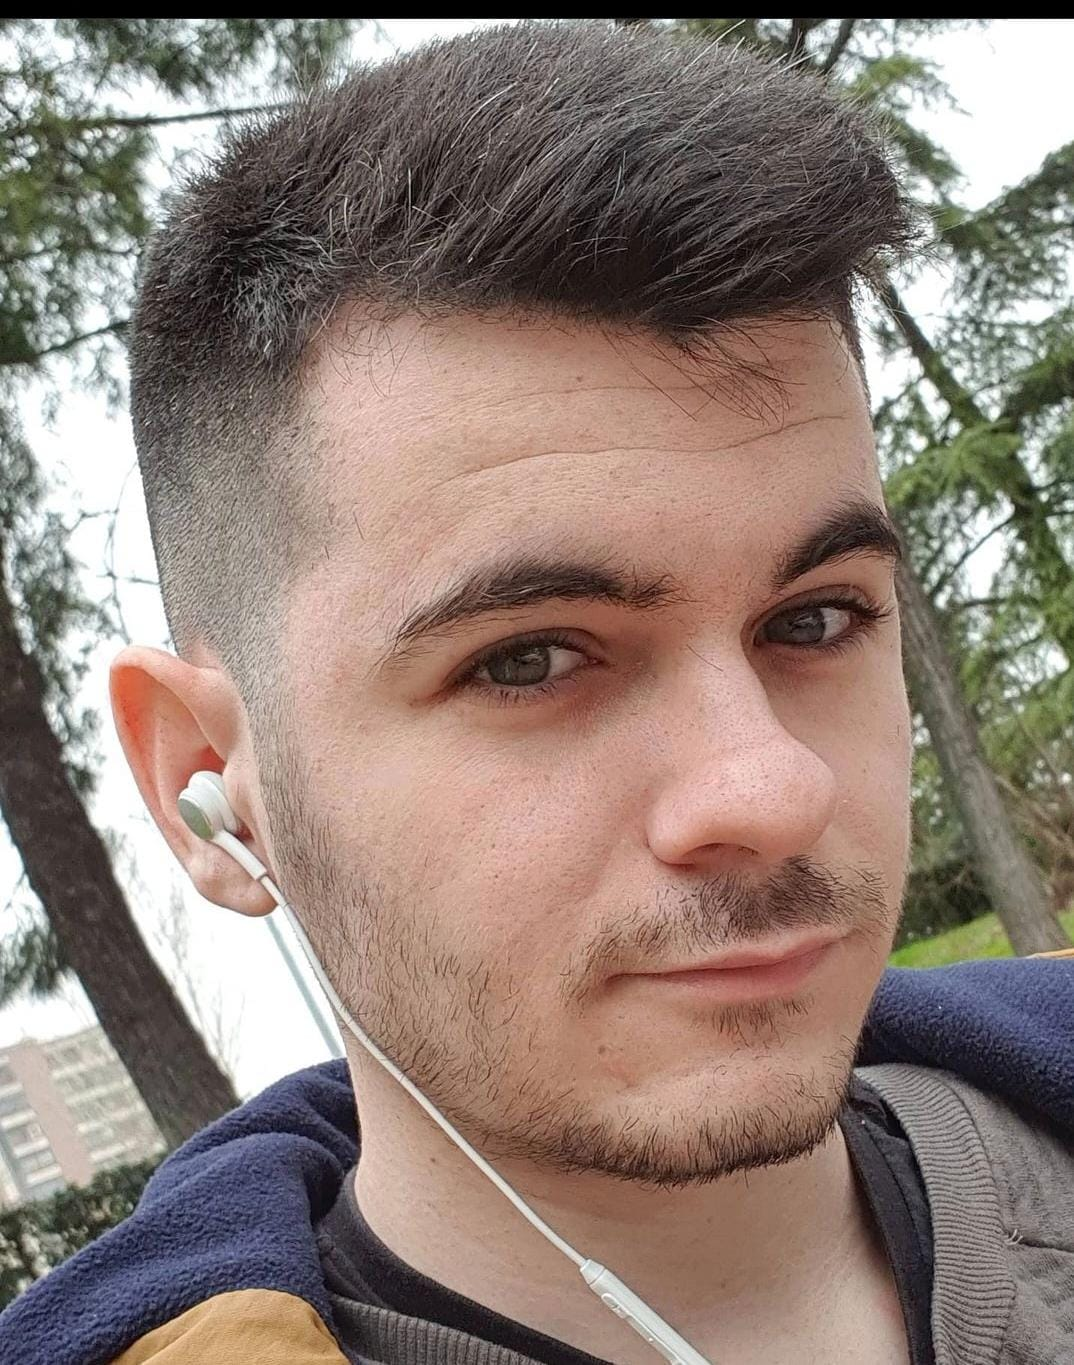
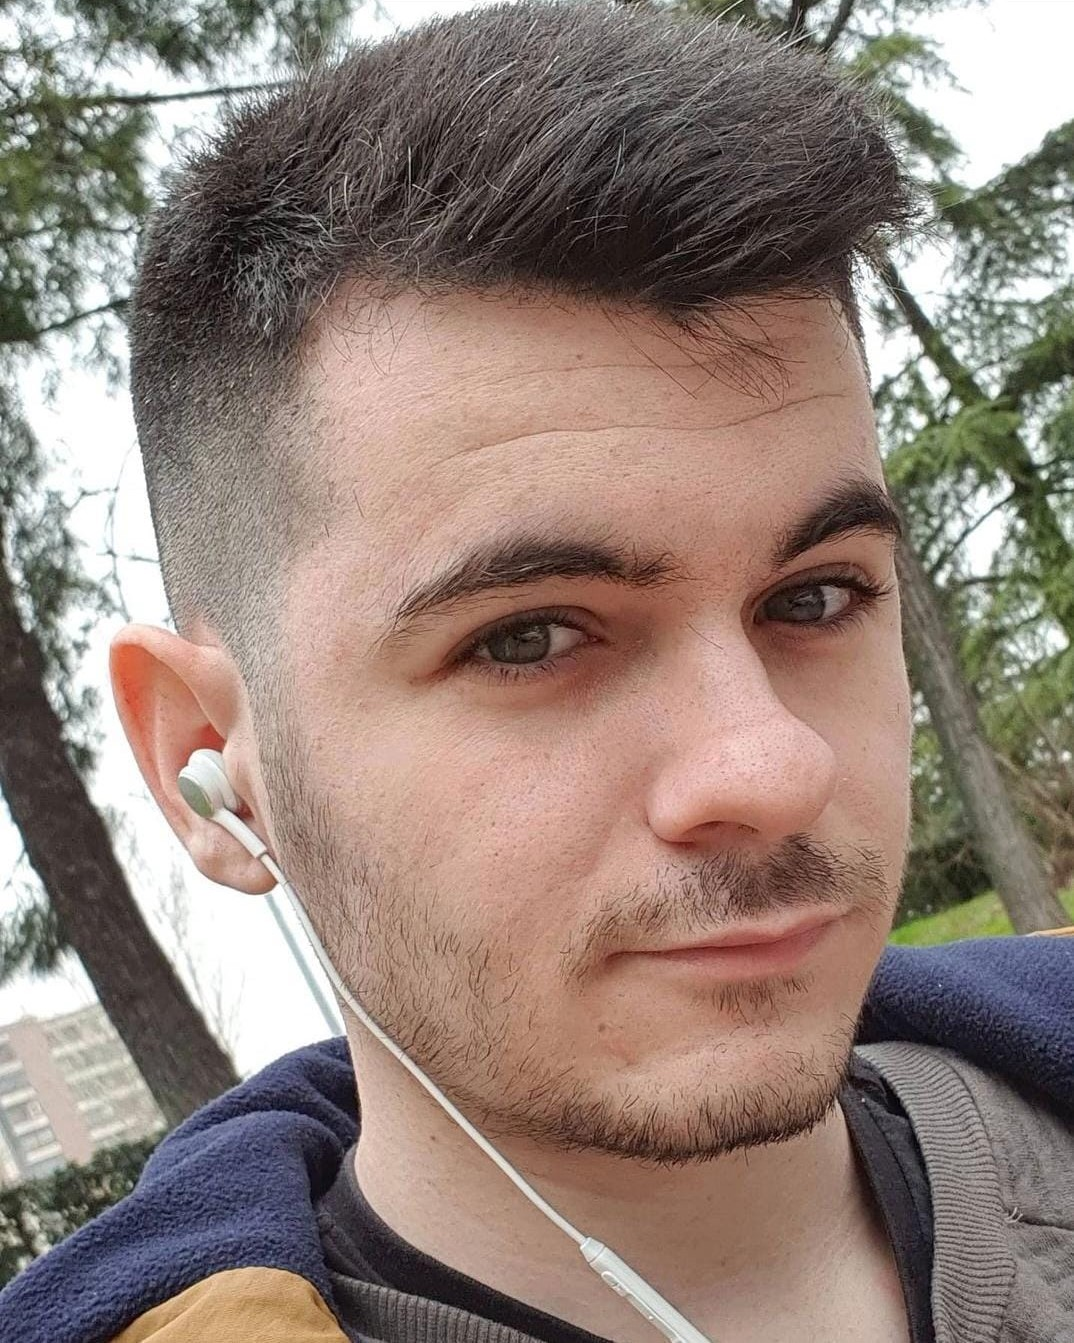
nueva img perfil

diff --git a/index.html b/index.html
@@ -46,9 +46,13 @@
                     <div class="subheading mb-2">
                         Alias - Pactonito
                     </div>
-                    <div class="subheading mb-5">
+                    <div class="subheading mb-2">
                         Madrid - Spain
+                    </div>
+                    <div class="subheading mb-2">
                         <a href="mailto:mrodbon99@gmail.com">mrodbon99@gmail.com</a>
+                    </div>
+                    <div class="subheading mb-2">
                         <a href="Docs/CVMRB.pdf">Curriculum Vitae</a>
                     </div>
                     <p class="lead mb-5">Hi, I'm Manuel, a student from Sevilla who actually lives in Madrid. 
@@ -56,6 +60,7 @@
                         <br/> Actually I'm specializing in Level Design.
                         <br/> I've worked at many group proyects as Game and Level Designer.
                         <br/> I usually do the GDD's when the proyect needs it.
+                        <br/> I'm actually working in my TFG - A platform 2D Videogame with Metroidvania elements.
                         <br/> My dream is to work at Insomniac Games as Game Designer.</p>
                     
                     <div class="social-icons subheading mb-3">
@@ -88,7 +93,9 @@
                             <div class="subheading mb-3">
                                 <a href="https://bananaslipdev.github.io/">Banana Slip</a>
                             </div>
-                            <p>Rolling beats is a rhythm videogame where you play as Tina Rules, a skater whose dream is to become the first person to skate on the rings of Saturn.<br/> Developed in Unity. <br/>Available on Web browser for both PC and mobile devices.</p>
+                            <p>Rolling beats is a rhythm videogame where you play as Tina Rules, a skater whose dream is to become the first person to skate on the rings of Saturn.
+                                <br/>Developed in Unity. 
+                                <br/>Available on Web browser for both PC and mobile devices.</p>
                             <div class="subheading mb-3">
                                 <a href="Docs/GDD_RollingBeats.pdf">GDD Rolling Beats</a>
                             </div>
@@ -98,12 +105,33 @@
                                 <a class="social-icon" href="https://twitter.com/BananaSlipDev"><i class="fab fa-twitter"></i></a>
                             </div>
                         </div>
-                        <div class="flex-shrink-0"><span class="text-primary">September 2021 - December 2022</span></div>
+                        <div class="flex-shrink-0"><span class="text-primary">September 2021 - December 2021</span></div>
+                    </div>
+                    <div class="d-flex flex-column flex-md-row justify-content-between mb-5">
+                        <div class="flex-grow-1">
+                            <h3 class="mb-0">Sugar Scape</h3>
+                            <div class="subheading mb-3">
+                                <a>Sweet Team Dev</a>
+                            </div>
+                            <p>Sugar Scape is a puzzle game where you play as Juangibre.
+                                <br/>Juangibre is a little ginger cookie who wants to scape from the kitchen where he lives. 
+                                <br/>Developed in Unity.</p>
+                            <div class="subheading mb-3">
+                                <a href="Docs/GDD_SugarScape.pdf">GDD Sugar Scape</a>
+                            </div>    
+                            <div class="social-icons">
+                                <a class="social-icon" href="https://github.com/LaPatris/SugarScape"><i class="fab fa-github"></i></a>
+                            </div>
+                            
+                        </div>
+                        <div class="flex-shrink-0"><span class="text-primary">September 2020 - January 2021</span></div>
                     </div>
                     <div class="d-flex flex-column flex-md-row justify-content-between mb-5">
                         <div class="flex-grow-1">
                             <h3 class="mb-0">BOBB - Be One Bouncing Ball</h3>
-                            <p>BOBB is a mobile game where you play as Bobb, a ball whose objective is move along his world.<br/>Developed in Unity. <br/> Available on mobile devices (Android).</p>
+                            <p>BOBB is a mobile game where you play as Bobb, a ball whose objective is move along his world.
+                                <br/>Developed in Unity. 
+                                <br/>Available on mobile devices (Android).</p>
                             <div class="social-icons">
                                 <a class="social-icon" href="https://pactonito.itch.io/bobb-be-one-bouncing-ball"><i class="fab fa-itch-io"></i></a>
                                 <a class="social-icon" href="https://github.com/soimiru/BOBB"><i class="fab fa-github"></i></a>
